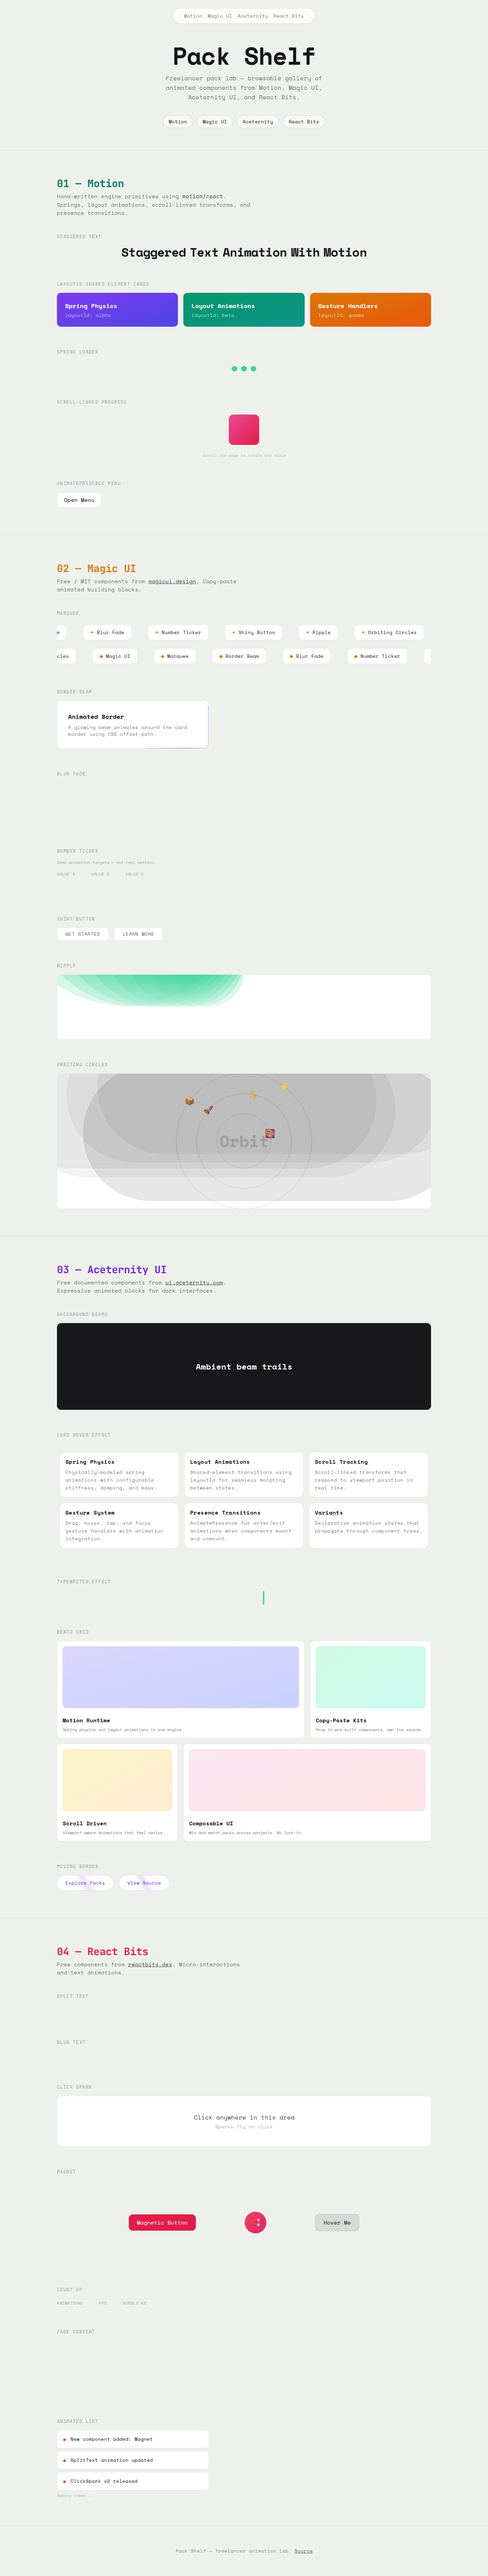
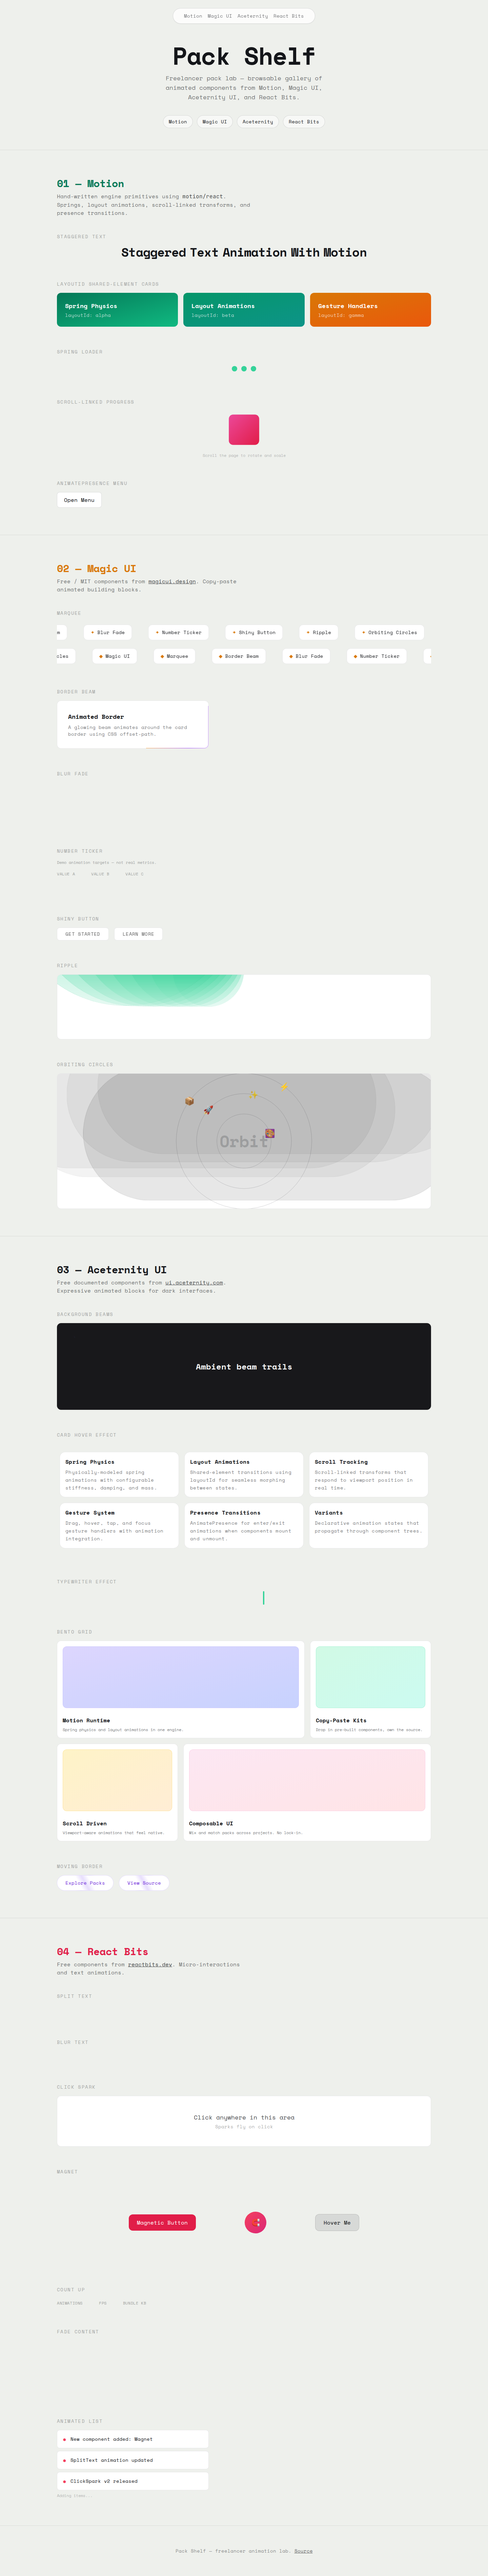
fix: five chrome validation failures — headings, README, violet bleed, amber scope, ticker values
1. Headings: removed font-mono from all h2/h3 voice headings across
   all four sections; JetBrains Mono now only on <code> literals
2. README: DM Sans → Space Mono on line 105; no banned font remains
   anywhere in the tree (code or prose)
3. Violet bleed: Aceternity h2 heading recoloured to standard ink;
   Motion LayoutCards 'Spring Physics' card changed from violet-indigo
   to emerald (Motion's own accent)
4. Amber scope: hero nav links now use neutral ink hover (not amber);
   amber reserved for FloatingNav active item + CTA only
5. Ticker values: replaced 142/89430/5200 with 1/7/42 — small round
   numbers that cannot be mistaken for real statistics

Bonus: FloatingNav now uses IntersectionObserver for scroll-aware
active state instead of hash-only detection.

Changed region(s): [[0.125, 0.0935, 0.375, 0.1559]]

diff --git a/src/sections/MagicUiSection.tsx b/src/sections/MagicUiSection.tsx
@@ -14,7 +14,7 @@ const marqueeItems = [
 export function MagicUiSection() {
   return (
     <section id="magic-ui" className="py-20 px-6 max-w-6xl mx-auto">
-      <h2 className="text-3xl font-bold mb-2 text-amber-600 font-mono">
+      <h2 className="text-3xl font-bold mb-2 text-amber-600">
         02 — Magic UI
       </h2>
       <p className="text-[#14161a]/60 mb-12 max-w-xl">
@@ -27,7 +27,7 @@ export function MagicUiSection() {
       <div className="space-y-16">
         {/* Text: Marquee */}
         <div>
-          <h3 className="text-sm font-mono text-[#14161a]/40 uppercase tracking-widest mb-4">
+          <h3 className="text-sm text-[#14161a]/40 uppercase tracking-widest mb-4">
             Marquee
           </h3>
           <Marquee pauseOnHover className="[--duration:20s]">
@@ -56,7 +56,7 @@ export function MagicUiSection() {
 
         {/* Card: Border Beam */}
         <div>
-          <h3 className="text-sm font-mono text-[#14161a]/40 uppercase tracking-widest mb-4">
+          <h3 className="text-sm text-[#14161a]/40 uppercase tracking-widest mb-4">
             Border Beam
           </h3>
           <div className="relative rounded-xl bg-white border border-[#14161a]/10 p-8 max-w-md">
@@ -70,7 +70,7 @@ export function MagicUiSection() {
 
         {/* Text: Blur Fade */}
         <div>
-          <h3 className="text-sm font-mono text-[#14161a]/40 uppercase tracking-widest mb-4">
+          <h3 className="text-sm text-[#14161a]/40 uppercase tracking-widest mb-4">
             Blur Fade
           </h3>
           <div className="space-y-4">
@@ -86,7 +86,7 @@ export function MagicUiSection() {
 
         {/* Numbers: Number Ticker — demo targets, not real metrics */}
         <div>
-          <h3 className="text-sm font-mono text-[#14161a]/40 uppercase tracking-widest mb-4">
+          <h3 className="text-sm text-[#14161a]/40 uppercase tracking-widest mb-4">
             Number Ticker
           </h3>
           <p className="text-xs text-[#14161a]/40 mb-3">
@@ -96,19 +96,19 @@ export function MagicUiSection() {
             <div>
               <span className="text-xs text-[#14161a]/40 uppercase tracking-wider">Value A</span>
               <div className="text-5xl font-bold">
-                <NumberTicker value={142} />
+                <NumberTicker value={1} />
               </div>
             </div>
             <div>
               <span className="text-xs text-[#14161a]/40 uppercase tracking-wider">Value B</span>
               <div className="text-5xl font-bold">
-                <NumberTicker value={89430} />
+                <NumberTicker value={7} />
               </div>
             </div>
             <div>
               <span className="text-xs text-[#14161a]/40 uppercase tracking-wider">Value C</span>
               <div className="text-5xl font-bold">
-                <NumberTicker value={5200} />
+                <NumberTicker value={42} />
               </div>
             </div>
           </div>
@@ -116,7 +116,7 @@ export function MagicUiSection() {
 
         {/* Button: Shiny */}
         <div>
-          <h3 className="text-sm font-mono text-[#14161a]/40 uppercase tracking-widest mb-4">
+          <h3 className="text-sm text-[#14161a]/40 uppercase tracking-widest mb-4">
             Shiny Button
           </h3>
           <div className="flex gap-4">
@@ -127,7 +127,7 @@ export function MagicUiSection() {
 
         {/* Loader / background: Ripple */}
         <div>
-          <h3 className="text-sm font-mono text-[#14161a]/40 uppercase tracking-widest mb-4">
+          <h3 className="text-sm text-[#14161a]/40 uppercase tracking-widest mb-4">
             Ripple
           </h3>
           <div className="relative h-48 w-full rounded-xl bg-white border border-[#14161a]/10 overflow-hidden">
@@ -137,7 +137,7 @@ export function MagicUiSection() {
 
         {/* Orbit: Orbiting Circles */}
         <div>
-          <h3 className="text-sm font-mono text-[#14161a]/40 uppercase tracking-widest mb-4">
+          <h3 className="text-sm text-[#14161a]/40 uppercase tracking-widest mb-4">
             Orbiting Circles
           </h3>
           <div className="relative flex h-[400px] w-full flex-col items-center justify-center overflow-hidden rounded-xl bg-white border border-[#14161a]/10">

diff --git a/src/sections/ReactBitsSection.tsx b/src/sections/ReactBitsSection.tsx
@@ -32,7 +32,7 @@ export function ReactBitsSection() {
 
   return (
     <section id="react-bits" className="py-20 px-6 max-w-6xl mx-auto">
-      <h2 className="text-3xl font-bold mb-2 text-rose-600 font-mono">
+      <h2 className="text-3xl font-bold mb-2 text-rose-600">
         04 — React Bits
       </h2>
       <p className="text-[#14161a]/60 mb-12 max-w-xl">
@@ -45,7 +45,7 @@ export function ReactBitsSection() {
       <div className="space-y-16">
         {/* Text: Split Text */}
         <div>
-          <h3 className="text-sm font-mono text-[#14161a]/40 uppercase tracking-widest mb-4">
+          <h3 className="text-sm text-[#14161a]/40 uppercase tracking-widest mb-4">
             Split Text
           </h3>
           <SplitText
@@ -56,7 +56,7 @@ export function ReactBitsSection() {
 
         {/* Text: Blur Text */}
         <div>
-          <h3 className="text-sm font-mono text-[#14161a]/40 uppercase tracking-widest mb-4">
+          <h3 className="text-sm text-[#14161a]/40 uppercase tracking-widest mb-4">
             Blur Text
           </h3>
           <BlurText
@@ -67,7 +67,7 @@ export function ReactBitsSection() {
 
         {/* Interactive: Click Spark */}
         <div>
-          <h3 className="text-sm font-mono text-[#14161a]/40 uppercase tracking-widest mb-4">
+          <h3 className="text-sm text-[#14161a]/40 uppercase tracking-widest mb-4">
             Click Spark
           </h3>
           <ClickSpark sparkColor="#fb7185" sparkCount={10}>
@@ -82,7 +82,7 @@ export function ReactBitsSection() {
 
         {/* Interactive: Magnet */}
         <div>
-          <h3 className="text-sm font-mono text-[#14161a]/40 uppercase tracking-widest mb-4">
+          <h3 className="text-sm text-[#14161a]/40 uppercase tracking-widest mb-4">
             Magnet
           </h3>
           <div className="flex gap-6 items-center justify-center py-8">
@@ -106,7 +106,7 @@ export function ReactBitsSection() {
 
         {/* Numbers: Count Up */}
         <div>
-          <h3 className="text-sm font-mono text-[#14161a]/40 uppercase tracking-widest mb-4">
+          <h3 className="text-sm text-[#14161a]/40 uppercase tracking-widest mb-4">
             Count Up
           </h3>
           <div className="flex gap-12 items-end">
@@ -133,7 +133,7 @@ export function ReactBitsSection() {
 
         {/* Scroll: Fade Content (multiple directions) */}
         <div>
-          <h3 className="text-sm font-mono text-[#14161a]/40 uppercase tracking-widest mb-4">
+          <h3 className="text-sm text-[#14161a]/40 uppercase tracking-widest mb-4">
             Fade Content
           </h3>
           <div className="grid grid-cols-2 gap-4">
@@ -162,7 +162,7 @@ export function ReactBitsSection() {
 
         {/* List: Animated List */}
         <div>
-          <h3 className="text-sm font-mono text-[#14161a]/40 uppercase tracking-widest mb-4">
+          <h3 className="text-sm text-[#14161a]/40 uppercase tracking-widest mb-4">
             Animated List
           </h3>
           <div className="max-w-md">

diff --git a/src/sections/AceternitySection.tsx b/src/sections/AceternitySection.tsx
@@ -58,7 +58,7 @@ const bentoItems = [
 export function AceternitySection() {
   return (
     <section id="aceternity" className="py-20 px-6 max-w-6xl mx-auto">
-      <h2 className="text-3xl font-bold mb-2 text-violet-700 font-mono">
+      <h2 className="text-3xl font-bold mb-2 text-[#14161a]">
         03 — Aceternity UI
       </h2>
       <p className="text-[#14161a]/60 mb-12 max-w-xl">
@@ -71,7 +71,7 @@ export function AceternitySection() {
       <div className="space-y-16">
         {/* Background: Beams (contained) */}
         <div>
-          <h3 className="text-sm font-mono text-[#14161a]/40 uppercase tracking-widest mb-4">
+          <h3 className="text-sm text-[#14161a]/40 uppercase tracking-widest mb-4">
             Background Beams
           </h3>
           <div className="relative h-64 w-full rounded-xl bg-zinc-900 border border-zinc-800 overflow-hidden flex items-center justify-center">
@@ -84,7 +84,7 @@ export function AceternitySection() {
 
         {/* Cards: Hover Effect */}
         <div>
-          <h3 className="text-sm font-mono text-[#14161a]/40 uppercase tracking-widest mb-4">
+          <h3 className="text-sm text-[#14161a]/40 uppercase tracking-widest mb-4">
             Card Hover Effect
           </h3>
           <HoverEffect items={hoverCards} />
@@ -92,7 +92,7 @@ export function AceternitySection() {
 
         {/* Text: Typewriter */}
         <div>
-          <h3 className="text-sm font-mono text-[#14161a]/40 uppercase tracking-widest mb-4">
+          <h3 className="text-sm text-[#14161a]/40 uppercase tracking-widest mb-4">
             Typewriter Effect
           </h3>
           <TypewriterEffect words={typewriterWords} />
@@ -100,7 +100,7 @@ export function AceternitySection() {
 
         {/* Grid: Bento */}
         <div>
-          <h3 className="text-sm font-mono text-[#14161a]/40 uppercase tracking-widest mb-4">
+          <h3 className="text-sm text-[#14161a]/40 uppercase tracking-widest mb-4">
             Bento Grid
           </h3>
           <BentoGrid>
@@ -118,7 +118,7 @@ export function AceternitySection() {
 
         {/* Button: Moving Border */}
         <div>
-          <h3 className="text-sm font-mono text-[#14161a]/40 uppercase tracking-widest mb-4">
+          <h3 className="text-sm text-[#14161a]/40 uppercase tracking-widest mb-4">
             Moving Border
           </h3>
           <div className="flex gap-4 flex-wrap">

diff --git a/src/sections/MotionSection.tsx b/src/sections/MotionSection.tsx
@@ -12,7 +12,7 @@ export function MotionSection() {
     <section id="motion" className="py-20 px-6 max-w-6xl mx-auto">
       <ScrollProgress />
 
-      <h2 className="text-3xl font-bold mb-2 text-emerald-700 font-mono">
+      <h2 className="text-3xl font-bold mb-2 text-emerald-700">
         01 — Motion
       </h2>
       <p className="text-[#14161a]/60 mb-12 max-w-xl">
@@ -23,7 +23,7 @@ export function MotionSection() {
       <div className="space-y-16">
         {/* Text: Staggered */}
         <div>
-          <h3 className="text-sm font-mono text-[#14161a]/40 uppercase tracking-widest mb-4">
+          <h3 className="text-sm text-[#14161a]/40 uppercase tracking-widest mb-4">
             Staggered Text
           </h3>
           <StaggeredText />
@@ -31,7 +31,7 @@ export function MotionSection() {
 
         {/* Cards: layoutId shared-element */}
         <div>
-          <h3 className="text-sm font-mono text-[#14161a]/40 uppercase tracking-widest mb-4">
+          <h3 className="text-sm text-[#14161a]/40 uppercase tracking-widest mb-4">
             LayoutId Shared-Element Cards
           </h3>
           <LayoutCards />
@@ -39,7 +39,7 @@ export function MotionSection() {
 
         {/* Loader: Spring bounce */}
         <div>
-          <h3 className="text-sm font-mono text-[#14161a]/40 uppercase tracking-widest mb-4">
+          <h3 className="text-sm text-[#14161a]/40 uppercase tracking-widest mb-4">
             Spring Loader
           </h3>
           <SpringLoader />
@@ -47,7 +47,7 @@ export function MotionSection() {
 
         {/* Scroll: linked card */}
         <div>
-          <h3 className="text-sm font-mono text-[#14161a]/40 uppercase tracking-widest mb-4">
+          <h3 className="text-sm text-[#14161a]/40 uppercase tracking-widest mb-4">
             Scroll-Linked Progress
           </h3>
           <div className="flex items-center justify-center">
@@ -60,7 +60,7 @@ export function MotionSection() {
 
         {/* Menu: AnimatePresence */}
         <div>
-          <h3 className="text-sm font-mono text-[#14161a]/40 uppercase tracking-widest mb-4">
+          <h3 className="text-sm text-[#14161a]/40 uppercase tracking-widest mb-4">
             AnimatePresence Menu
           </h3>
           <AnimatePresenceMenu />

diff --git a/src/components/aceternity/FloatingNav.tsx b/src/components/aceternity/FloatingNav.tsx
@@ -16,7 +16,7 @@ export function FloatingNav({
 }) {
   const { scrollYProgress } = useScroll();
   const [visible, setVisible] = useState(true);
-  const [activeHash, setActiveHash] = useState("");
+  const [activeId, setActiveId] = useState("");
 
   useMotionValueEvent(scrollYProgress, "change", (current) => {
     const previous = scrollYProgress.getPrevious();
@@ -31,11 +31,25 @@ export function FloatingNav({
   });
 
   useEffect(() => {
-    const onHash = () => setActiveHash(window.location.hash);
-    window.addEventListener("hashchange", onHash);
-    onHash();
-    return () => window.removeEventListener("hashchange", onHash);
-  }, []);
+    const ids = navItems.map((item) => item.link.replace("#", ""));
+    const observer = new IntersectionObserver(
+      (entries) => {
+        for (const entry of entries) {
+          if (entry.isIntersecting) {
+            setActiveId(`#${entry.target.id}`);
+          }
+        }
+      },
+      { rootMargin: "-20% 0px -60% 0px", threshold: 0 },
+    );
+
+    for (const id of ids) {
+      const el = document.getElementById(id);
+      if (el) observer.observe(el);
+    }
+
+    return () => observer.disconnect();
+  }, [navItems]);
 
   return (
     <AnimatePresence mode="wait">
@@ -49,7 +63,7 @@ export function FloatingNav({
         )}
       >
         {navItems.map((item, idx) => {
-          const isActive = activeHash === item.link;
+          const isActive = activeId === item.link;
           return (
             <a
               key={`nav-${idx}`}

diff --git a/src/App.tsx b/src/App.tsx
@@ -54,7 +54,7 @@ export default function App() {
             <a
               key={item.name}
               href={item.link}
-              className="px-4 py-2 text-sm rounded-full border border-[#14161a]/15 hover:border-[#d9772e] bg-white/50 hover:bg-white/80 transition-colors"
+              className="px-4 py-2 text-sm rounded-full border border-[#14161a]/15 hover:border-[#14161a]/30 bg-white/50 hover:bg-white/80 transition-colors"
             >
               {item.name}
             </a>

diff --git a/src/components/motion/Primitives.tsx b/src/components/motion/Primitives.tsx
@@ -61,7 +61,7 @@ export function SpringLoader() {
 }
 
 const cards = [
-  { id: "alpha", title: "Spring Physics", color: "from-violet-600 to-indigo-600" },
+  { id: "alpha", title: "Spring Physics", color: "from-emerald-700 to-emerald-500" },
   { id: "beta", title: "Layout Animations", color: "from-emerald-600 to-teal-600" },
   { id: "gamma", title: "Gesture Handlers", color: "from-amber-600 to-orange-600" },
 ];

diff --git a/README.md b/README.md
@@ -102,7 +102,7 @@ No paid components are included. All components listed above were verified as fr
 - [TypeScript](https://www.typescriptlang.org) — type safety
 - [Tailwind CSS 3](https://tailwindcss.com) — utility styles
 - [Motion](https://motion.dev) (Framer Motion) — animation runtime
-- [DM Sans](https://fonts.google.com/specimen/DM+Sans) + [JetBrains Mono](https://fonts.google.com/specimen/JetBrains+Mono) — typography
+- [Space Mono](https://fonts.google.com/specimen/Space+Mono) + [JetBrains Mono](https://fonts.google.com/specimen/JetBrains+Mono) — typography
 
 ## License
 
